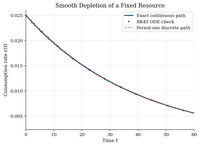
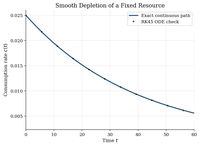
Cut continuous cake eating tutorial

diff --git a/optimal-control/continuous-cake-eating/run.py b/optimal-control/continuous-cake-eating/run.py
@@ -32,9 +32,6 @@ def main():
     T = 80.0          # Horizon used only for plotting and numerical checks
     n_eval = 500      # Number of evaluation points
 
-    # Discrete-time counterpart parameters
-    beta = np.exp(-rho)  # Equivalent discrete discount factor
-
     # =========================================================================
     # Exact continuous-time solution
     # =========================================================================
@@ -86,22 +83,6 @@ def main():
     max_c_error = np.max(np.abs(c_numerical - c_analytical))
 
     # =========================================================================
-    # Discrete-time reference path
-    # =========================================================================
-    # The finite-period counterpart consumes a geometric sequence. It is useful
-    # context for readers coming from dynamic-programming/cake-eating.
-
-    gamma_discrete = beta ** (1.0 / sigma)  # consumption growth factor
-    c0_discrete = (1 - gamma_discrete) * W_0
-    T_discrete = 60
-    t_discrete = np.arange(T_discrete)
-    c_discrete = c0_discrete * gamma_discrete ** t_discrete
-    W_discrete = np.zeros(T_discrete)
-    W_discrete[0] = W_0
-    for t in range(1, T_discrete):
-        W_discrete[t] = W_discrete[t - 1] - c_discrete[t - 1]
-
-    # =========================================================================
     # Generate Report
     # =========================================================================
     setup_style()
@@ -114,24 +95,20 @@ def main():
     )
 
     report.add_overview(
-        "A planner begins with one fixed stock $W_0$, perhaps an inherited reserve of a "
-        "consumption good, and has to decide how quickly to draw it down. Eating more "
-        "today gives utility now, but it also leaves less for every future date. With "
-        "CRRA utility, the smoothing motive pushes the planner away from spending the "
-        "whole stock early.\n\n"
-        "In discrete time this allocation can be written as a Bellman equation, as in "
-        "[Finite-Resource Cake Eating](../../dynamic-programming/cake-eating/). Here the "
-        "same economic tradeoff is written in continuous time. Instead of searching over "
-        "a grid of next-period stocks, we use Pontryagin's maximum principle to price the "
-        "remaining resource and recover the consumption path $c(t)$ directly. The costate "
-        "variable is the shadow value of one more unit left for the future."
+        "A planner owns a fixed stock $W_0$ of a consumption good. Consuming more today "
+        "leaves less for every future date.\n\n"
+        "The object is a continuous-time consumption path $c(t)$ and remaining stock "
+        "$W(t)$. CRRA utility rewards smoothing, so the path should decline gradually.\n\n"
+        "The computation turns an infinite-horizon control problem into paths that can "
+        "be evaluated and checked. Pontryagin's maximum principle supplies the costate "
+        "equation and the shadow price."
     )
 
     report.add_equations(
         r"""
-For $\sigma \neq 1$, flow utility is
+For $\sigma > 0$ and $\sigma \neq 1$, flow utility is
 $$u(c)=\frac{c^{1-\sigma}}{1-\sigma}, \qquad u'(c)=c^{-\sigma},$$
-with the log case obtained as $\sigma \to 1$. The continuous-time problem is
+and the planner solves
 $$\max_{\{c(t)\}_{t\geq 0}} \int_0^\infty e^{-\rho t} u(c(t)) \, dt$$
 
 subject to
@@ -140,12 +117,12 @@ $$\dot{W}(t)=-c(t), \qquad W(0)=W_0, \qquad c(t)\geq 0, \qquad W(t)\geq 0.$$
 The present-value Hamiltonian is
 $$\mathcal{H}(c,W,\lambda,t)=e^{-\rho t}u(c)-\lambda c.$$
 
-The first-order and costate equations are
+The first-order condition and costate equation are
 $$e^{-\rho t}c(t)^{-\sigma}=\lambda(t), \qquad
 \dot{\lambda}(t)=-\frac{\partial \mathcal{H}}{\partial W}=0.$$
 
-Since $\lambda(t)$ is constant in present value, differentiating the first-order
-condition gives the Euler equation
+Because $W$ has no direct payoff, the present-value costate is constant.
+Differentiating the first-order condition gives
 $$\frac{\dot c(t)}{c(t)}=-\frac{\rho}{\sigma}.$$
 
 The no-waste condition $\int_0^\infty c(t)\,dt=W_0$ pins down the initial
@@ -155,8 +132,8 @@ W(t)=W_0 e^{-\rho t/\sigma}.$$
 
 The current-value shadow price is
 $$\mu(t)=e^{\rho t}\lambda=c(t)^{-\sigma},$$
-so $\dot{\mu}(t)/\mu(t)=\rho$. Scarcity grows in current-value terms even though
-the present-value costate is flat.
+so $\dot{\mu}(t)/\mu(t)=\rho$. Current-value scarcity rises even though the
+present-value costate is flat.
 """
     )
 
@@ -166,17 +143,15 @@ the present-value costate is flat.
         f"| $\\rho$    | {rho} | Continuous discount rate |\n"
         f"| $\\sigma$  | {sigma} | Relative risk aversion; IES $=1/\\sigma$ |\n"
         f"| $W_0$     | {W_0} | Initial resource stock |\n"
-        f"| $\\beta = e^{{-\\rho}}$ | {beta:.4f} | Period-one discount factor for the discrete reference path |\n"
         f"| $T$       | {T} | Plotting horizon; the economic problem has an infinite horizon |\n"
         f"| Evaluation points | {n_eval} | Time points for exact paths and ODE checks |"
     )
 
     report.add_solution_method(
-        "Pontryagin's principle attaches a price to one extra unit of the resource "
-        "stock. At each instant, the planner equates discounted marginal utility from "
-        "current consumption with that shadow price. Since $W$ has no direct payoff, "
-        "the present-value price does not drift. Discounting and preference curvature "
-        "then determine how quickly consumption falls.\n\n"
+        "Pontryagin's principle attaches a price to one extra unit of stock. The "
+        "planner equates discounted marginal utility with that price at each instant. "
+        "Because $W$ has no direct payoff, the present-value price does not drift. "
+        "Discounting and curvature then set the decline in consumption.\n\n"
         "```text\n"
         "Inputs: rho, sigma, W0, evaluation grid {t_m}\n"
         "1. Write the present-value Hamiltonian H = exp(-rho t) u(c) - lambda c.\n"
@@ -187,12 +162,8 @@ the present-value costate is flat.
         "6. Evaluate c(t), W(t), and mu(t) = c(t)^(-sigma) on {t_m}.\n"
         "Output: consumption, remaining stock, and shadow-price paths.\n"
         "```\n\n"
-        "The numerical work evaluates those analytical paths and checks them by ODE "
-        "integration. The ODE check integrates $\\dot{W}=-c$ and "
-        "$\\dot{c}=-(\\rho/\\sigma)c$ from the implied initial consumption rate, then "
-        "compares the result with the closed-form path. The period-one discrete path "
-        "gives a nearby benchmark for the dynamic-programming version of the same "
-        "allocation problem.\n\n"
+        "The numerical check integrates two ODEs from the implied initial consumption "
+        "rate. It then compares the ODE solution with the closed-form path.\n\n"
         f"**Verification:** Max absolute error in $W(t)$: {max_W_error:.2e}, "
         f"in $c(t)$: {max_c_error:.2e}."
     )
@@ -204,9 +175,6 @@ the present-value costate is flat.
              label="Exact continuous path")
     ax1.plot(t_eval[mark_every], c_numerical[mark_every], "o", color="#222222",
              markersize=3, alpha=0.65, label="RK45 ODE check")
-    ax1.step(t_discrete, c_discrete, color="#b23a48", linestyle="--",
-             linewidth=1.5, alpha=0.8, where="post",
-             label="Period-one discrete path")
     ax1.set_xlabel("Time $t$")
     ax1.set_ylabel("Consumption rate $c(t)$")
     ax1.set_title("Smooth Depletion of a Fixed Resource")
@@ -214,13 +182,12 @@ the present-value costate is flat.
     ax1.set_xlim(0, 60)
     report.add_figure(
         "figures/consumption-path.png",
-        "Continuous consumption path with ODE and discrete-time comparisons",
+        "Continuous consumption path with ODE check",
         fig1,
         description="Consumption starts at $(\\rho/\\sigma)W_0$ and falls at the "
-        "constant proportional rate $\\rho/\\sigma$. The ODE markers sit on the closed-form "
-        "path, so the costate calculation and the differential equation give the same "
-        "allocation. The stepped line is the period-one discrete allocation from the "
-        "related finite-resource dynamic-programming problem."
+        "constant proportional rate $\\rho/\\sigma$.\n\n"
+        "The ODE markers sit on the closed-form path. The costate equations and ODE "
+        "system imply the same allocation."
     )
 
     # --- Figure 2: Cake Remaining ---
@@ -229,9 +196,6 @@ the present-value costate is flat.
              label="Exact continuous stock")
     ax2.plot(t_eval[mark_every], W_numerical[mark_every], "o", color="#222222",
              markersize=3, alpha=0.65, label="RK45 ODE check")
-    ax2.step(t_discrete, W_discrete, color="#b23a48", linestyle="--",
-             linewidth=1.5, alpha=0.8, where="post",
-             label="Period-one discrete stock")
     ax2.set_xlabel("Time $t$")
     ax2.set_ylabel("Cake remaining $W(t)$")
     ax2.set_title("Cake Remaining Along the Optimal Path")
@@ -239,11 +203,11 @@ the present-value costate is flat.
     ax2.set_xlim(0, 60)
     report.add_figure(
         "figures/cake-remaining.png",
-        "Exact cake stock with ODE and discrete-time comparisons",
+        "Exact cake stock with ODE check",
         fig2,
         description="The stock is depleted only asymptotically. With CRRA utility and an "
-        "infinite horizon, the planner keeps a tail of future consumption alive because "
-        "marginal utility becomes large as consumption approaches zero."
+        "infinite horizon, the planner preserves future consumption because marginal "
+        "utility rises near zero."
     )
 
     # --- Figure 3: Shadow Price ---
@@ -265,9 +229,8 @@ the present-value costate is flat.
         "Present-value and current-value shadow prices for the resource stock",
         fig3,
         description="The present-value costate is flat because the resource stock has no "
-        "direct payoff term. In current-value units the shadow price rises at rate "
-        "$\\rho$: one unit left for a later date is scarce in utility terms "
-        "even though its discounted value is equalized along the optimum."
+        "direct payoff term. The current-value shadow price rises at rate $\\rho$. "
+        "Later consumption is scarce in utility terms."
     )
 
     # --- Table ---
@@ -287,19 +250,16 @@ the present-value costate is flat.
         "tables/comparison.csv",
         "Selected Checks Against the Continuous-Time Path",
         df,
-        description="The exact solution is a benchmark for the numerical ODE path. "
-        "The small errors below come from ODE solver tolerances rather than a grid over "
-        "choices."
+        description="The exact solution benchmarks the ODE path. The errors come from "
+        "solver tolerances."
     )
 
     report.add_takeaway(
-        "The costate is the intertemporal price of the remaining resource. In this "
-        "problem the present-value price is constant, so optimality requires a declining "
-        "consumption path that keeps discounted marginal utility equal across dates.\n\n"
-        "Higher impatience raises the depletion rate, while higher risk aversion slows it "
-        "through the smoothing motive. The continuous-time formulation also clarifies the "
-        "object behind the discrete cake-eating Bellman problem: a smooth shadow-price "
-        "condition linking current consumption to all future scarcity."
+        "The costate is the intertemporal price of the remaining resource. Here the "
+        "present-value price is constant. Optimal consumption declines at rate "
+        "$\\rho/\\sigma$ and keeps discounted marginal utility equal across dates.\n\n"
+        "Higher impatience raises the depletion rate. Higher risk aversion slows it "
+        "through the smoothing motive."
     )
 
     report.add_references([

diff --git a/optimal-control/continuous-cake-eating/README.md b/optimal-control/continuous-cake-eating/README.md
@@ -4,15 +4,17 @@
 
 ## Overview
 
-A planner begins with one fixed stock $W_0$, perhaps an inherited reserve of a consumption good, and has to decide how quickly to draw it down. Eating more today gives utility now, but it also leaves less for every future date. With CRRA utility, the smoothing motive pushes the planner away from spending the whole stock early.
+A planner owns a fixed stock $W_0$ of a consumption good. Consuming more today leaves less for every future date.
 
-In discrete time this allocation can be written as a Bellman equation, as in [Finite-Resource Cake Eating](../../dynamic-programming/cake-eating/). Here the same economic tradeoff is written in continuous time. Instead of searching over a grid of next-period stocks, we use Pontryagin's maximum principle to price the remaining resource and recover the consumption path $c(t)$ directly. The costate variable is the shadow value of one more unit left for the future.
+The object is a continuous-time consumption path $c(t)$ and remaining stock $W(t)$. CRRA utility rewards smoothing, so the path should decline gradually.
+
+The computation turns an infinite-horizon control problem into paths that can be evaluated and checked. Pontryagin's maximum principle supplies the costate equation and the shadow price.
 
 ## Equations
 
-For $\sigma \neq 1$, flow utility is
+For $\sigma > 0$ and $\sigma \neq 1$, flow utility is
 $$u(c)=\frac{c^{1-\sigma}}{1-\sigma}, \qquad u'(c)=c^{-\sigma},$$
-with the log case obtained as $\sigma \to 1$. The continuous-time problem is
+and the planner solves
 $$\max_{\{c(t)\}_{t\geq 0}} \int_0^\infty e^{-\rho t} u(c(t)) \, dt$$
 
 subject to
@@ -21,12 +23,12 @@ $$\dot{W}(t)=-c(t), \qquad W(0)=W_0, \qquad c(t)\geq 0, \qquad W(t)\geq 0.$$
 The present-value Hamiltonian is
 $$\mathcal{H}(c,W,\lambda,t)=e^{-\rho t}u(c)-\lambda c.$$
 
-The first-order and costate equations are
+The first-order condition and costate equation are
 $$e^{-\rho t}c(t)^{-\sigma}=\lambda(t), \qquad
 \dot{\lambda}(t)=-\frac{\partial \mathcal{H}}{\partial W}=0.$$
 
-Since $\lambda(t)$ is constant in present value, differentiating the first-order
-condition gives the Euler equation
+Because $W$ has no direct payoff, the present-value costate is constant.
+Differentiating the first-order condition gives
 $$\frac{\dot c(t)}{c(t)}=-\frac{\rho}{\sigma}.$$
 
 The no-waste condition $\int_0^\infty c(t)\,dt=W_0$ pins down the initial
@@ -36,8 +38,8 @@ W(t)=W_0 e^{-\rho t/\sigma}.$$
 
 The current-value shadow price is
 $$\mu(t)=e^{\rho t}\lambda=c(t)^{-\sigma},$$
-so $\dot{\mu}(t)/\mu(t)=\rho$. Scarcity grows in current-value terms even though
-the present-value costate is flat.
+so $\dot{\mu}(t)/\mu(t)=\rho$. Current-value scarcity rises even though the
+present-value costate is flat.
 
 ## Model Setup
 
@@ -46,13 +48,12 @@ the present-value costate is flat.
 | $\rho$    | 0.05 | Continuous discount rate |
 | $\sigma$  | 2.0 | Relative risk aversion; IES $=1/\sigma$ |
 | $W_0$     | 1.0 | Initial resource stock |
-| $\beta = e^{-\rho}$ | 0.9512 | Period-one discount factor for the discrete reference path |
 | $T$       | 80.0 | Plotting horizon; the economic problem has an infinite horizon |
 | Evaluation points | 500 | Time points for exact paths and ODE checks |
 
 ## Solution Method
 
-Pontryagin's principle attaches a price to one extra unit of the resource stock. At each instant, the planner equates discounted marginal utility from current consumption with that shadow price. Since $W$ has no direct payoff, the present-value price does not drift. Discounting and preference curvature then determine how quickly consumption falls.
+Pontryagin's principle attaches a price to one extra unit of stock. The planner equates discounted marginal utility with that price at each instant. Because $W$ has no direct payoff, the present-value price does not drift. Discounting and curvature then set the decline in consumption.
 
 ```text
 Inputs: rho, sigma, W0, evaluation grid {t_m}
@@ -65,25 +66,27 @@ Inputs: rho, sigma, W0, evaluation grid {t_m}
 Output: consumption, remaining stock, and shadow-price paths.
 ```
 
-The numerical work evaluates those analytical paths and checks them by ODE integration. The ODE check integrates $\dot{W}=-c$ and $\dot{c}=-(\rho/\sigma)c$ from the implied initial consumption rate, then compares the result with the closed-form path. The period-one discrete path gives a nearby benchmark for the dynamic-programming version of the same allocation problem.
+The numerical check integrates two ODEs from the implied initial consumption rate. It then compares the ODE solution with the closed-form path.
 
 **Verification:** Max absolute error in $W(t)$: 2.64e-11, in $c(t)$: 6.61e-13.
 
 ## Results
 
-Consumption starts at $(\rho/\sigma)W_0$ and falls at the constant proportional rate $\rho/\sigma$. The ODE markers sit on the closed-form path, so the costate calculation and the differential equation give the same allocation. The stepped line is the period-one discrete allocation from the related finite-resource dynamic-programming problem.
+Consumption starts at $(\rho/\sigma)W_0$ and falls at the constant proportional rate $\rho/\sigma$.
 
-<img src="figures/consumption-path.png" alt="Continuous consumption path with ODE and discrete-time comparisons" width="80%">
+The ODE markers sit on the closed-form path. The costate equations and ODE system imply the same allocation.
 
-The stock is depleted only asymptotically. With CRRA utility and an infinite horizon, the planner keeps a tail of future consumption alive because marginal utility becomes large as consumption approaches zero.
+<img src="figures/consumption-path.png" alt="Continuous consumption path with ODE check" width="80%">
 
-<img src="figures/cake-remaining.png" alt="Exact cake stock with ODE and discrete-time comparisons" width="80%">
+The stock is depleted only asymptotically. With CRRA utility and an infinite horizon, the planner preserves future consumption because marginal utility rises near zero.
 
-The present-value costate is flat because the resource stock has no direct payoff term. In current-value units the shadow price rises at rate $\rho$: one unit left for a later date is scarce in utility terms even though its discounted value is equalized along the optimum.
+<img src="figures/cake-remaining.png" alt="Exact cake stock with ODE check" width="80%">
+
+The present-value costate is flat because the resource stock has no direct payoff term. The current-value shadow price rises at rate $\rho$. Later consumption is scarce in utility terms.
 
 <img src="figures/shadow-price.png" alt="Present-value and current-value shadow prices for the resource stock" width="80%">
 
-The exact solution is a benchmark for the numerical ODE path. The small errors below come from ODE solver tolerances rather than a grid over choices.
+The exact solution benchmarks the ODE path. The errors come from solver tolerances.
 
 **Selected Checks Against the Continuous-Time Path**
 
@@ -98,9 +101,9 @@ The exact solution is a benchmark for the numerical ODE path. The small errors b
 
 ## Takeaway
 
-The costate is the intertemporal price of the remaining resource. In this problem the present-value price is constant, so optimality requires a declining consumption path that keeps discounted marginal utility equal across dates.
+The costate is the intertemporal price of the remaining resource. Here the present-value price is constant. Optimal consumption declines at rate $\rho/\sigma$ and keeps discounted marginal utility equal across dates.
 
-Higher impatience raises the depletion rate, while higher risk aversion slows it through the smoothing motive. The continuous-time formulation also clarifies the object behind the discrete cake-eating Bellman problem: a smooth shadow-price condition linking current consumption to all future scarcity.
+Higher impatience raises the depletion rate. Higher risk aversion slows it through the smoothing motive.
 
 ## References
 

diff --git a/README.md b/README.md
@@ -84,7 +84,7 @@ These examples cover HJB equations, phase diagrams, shooting, and shadow prices.
 | [<img src="optimal-control/hjb-growth/figures/thumb.png" width="160">](optimal-control/hjb-growth/figures/value-function.png) | **[Ramsey Capital Accumulation by HJB Upwinding](optimal-control/hjb-growth/)** | Follow Ramsey capital accumulation toward its steady state. An upwind HJB links the shadow value of capital to consumption and drift. |
 | [<img src="optimal-control/phase-diagrams/figures/thumb.png" width="160">](optimal-control/phase-diagrams/figures/phase-diagram.png) | **[Ramsey Consumption Choice and Saddle Paths](optimal-control/phase-diagrams/)** | Study initial consumption in Ramsey growth. The phase diagram and backward stable-arm integration select the path that reaches the saddle steady state. |
 | [<img src="optimal-control/ramsey-growth/figures/thumb.png" width="160">](optimal-control/ramsey-growth/figures/phase-diagram.png) | **[Ramsey Saving by Saddle-Path Shooting](optimal-control/ramsey-growth/)** | A Ramsey planner chooses initial consumption with inherited capital. Shooting adjusts the jump variable until the path reaches the saddle steady state. |
-| [<img src="optimal-control/continuous-cake-eating/figures/thumb.png" width="160">](optimal-control/continuous-cake-eating/figures/consumption-path.png) | **[Fixed-Resource Consumption and Pontryagin Shadow Prices](optimal-control/continuous-cake-eating/)** | Study how a planner spreads a fixed resource over an infinite horizon. Pontryagin's costate equation prices the remaining stock and gives the smooth depletion path. |
+| [<img src="optimal-control/continuous-cake-eating/figures/thumb.png" width="160">](optimal-control/continuous-cake-eating/figures/consumption-path.png) | **[Fixed-Resource Consumption and Pontryagin Shadow Prices](optimal-control/continuous-cake-eating/)** | A planner allocates a fixed resource over continuous time. Pontryagin's costate equation prices remaining stock and pins down the depletion path. |
 
 ## Industrial Organization
 